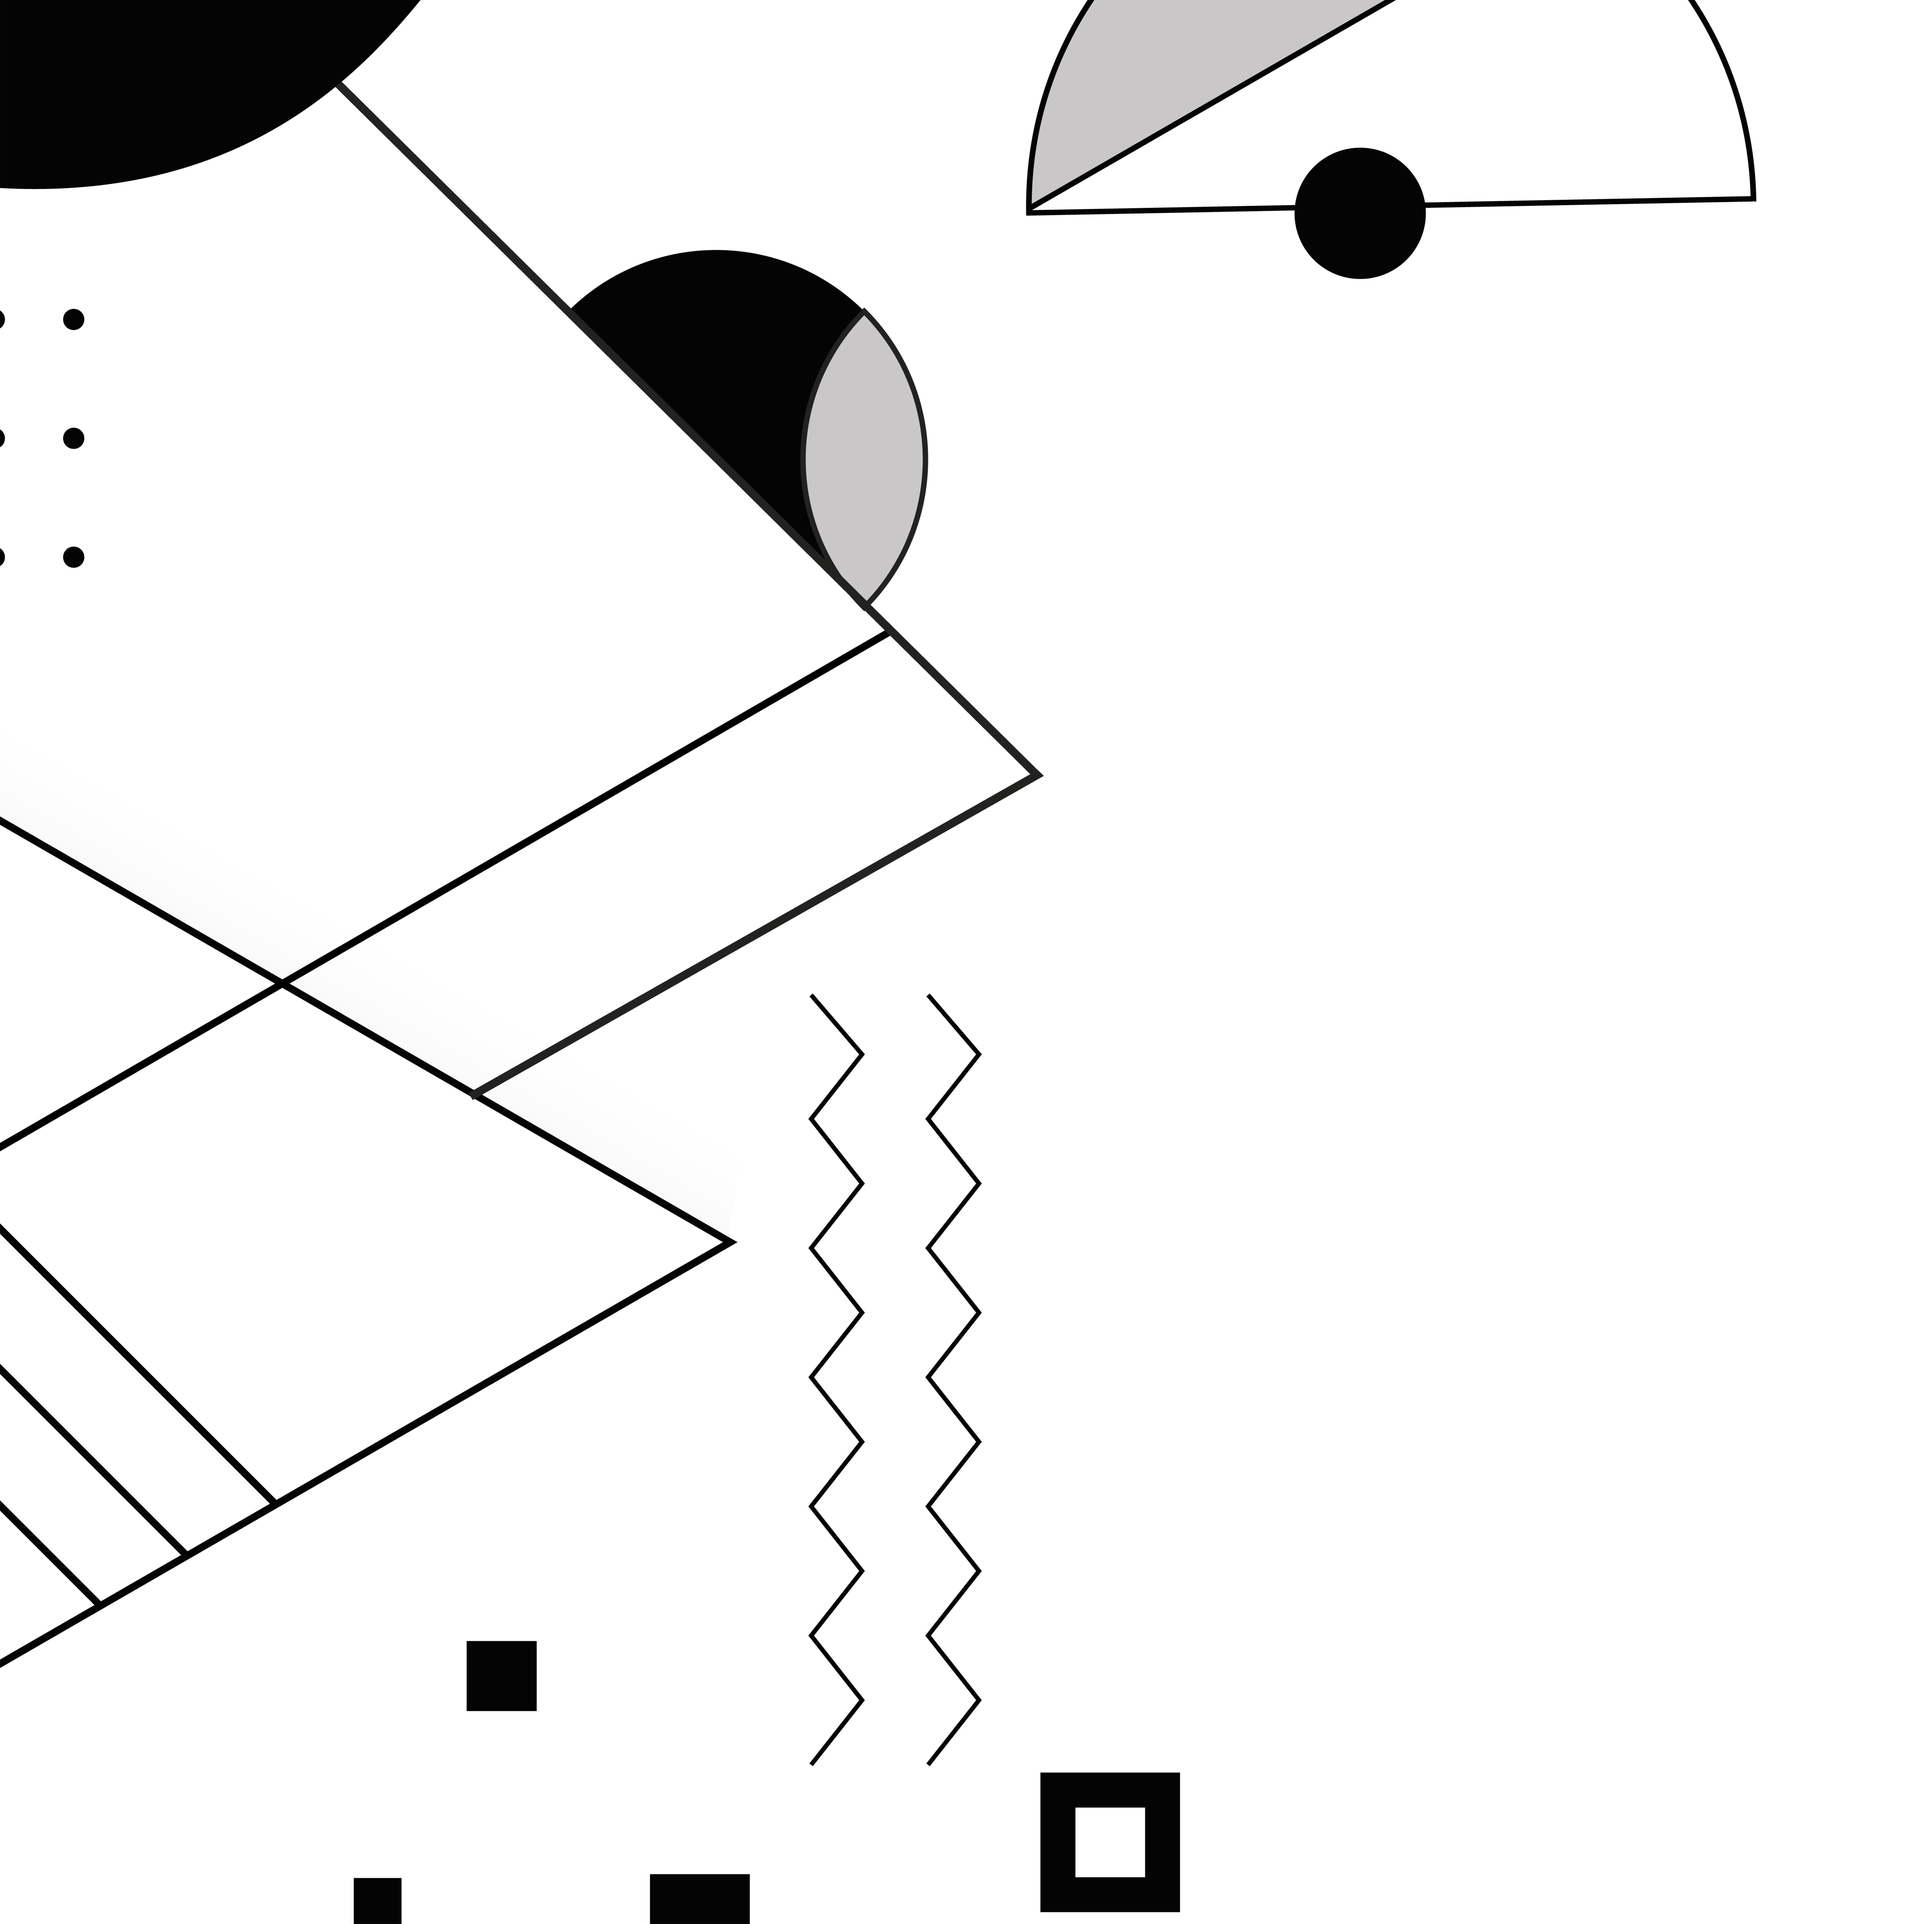
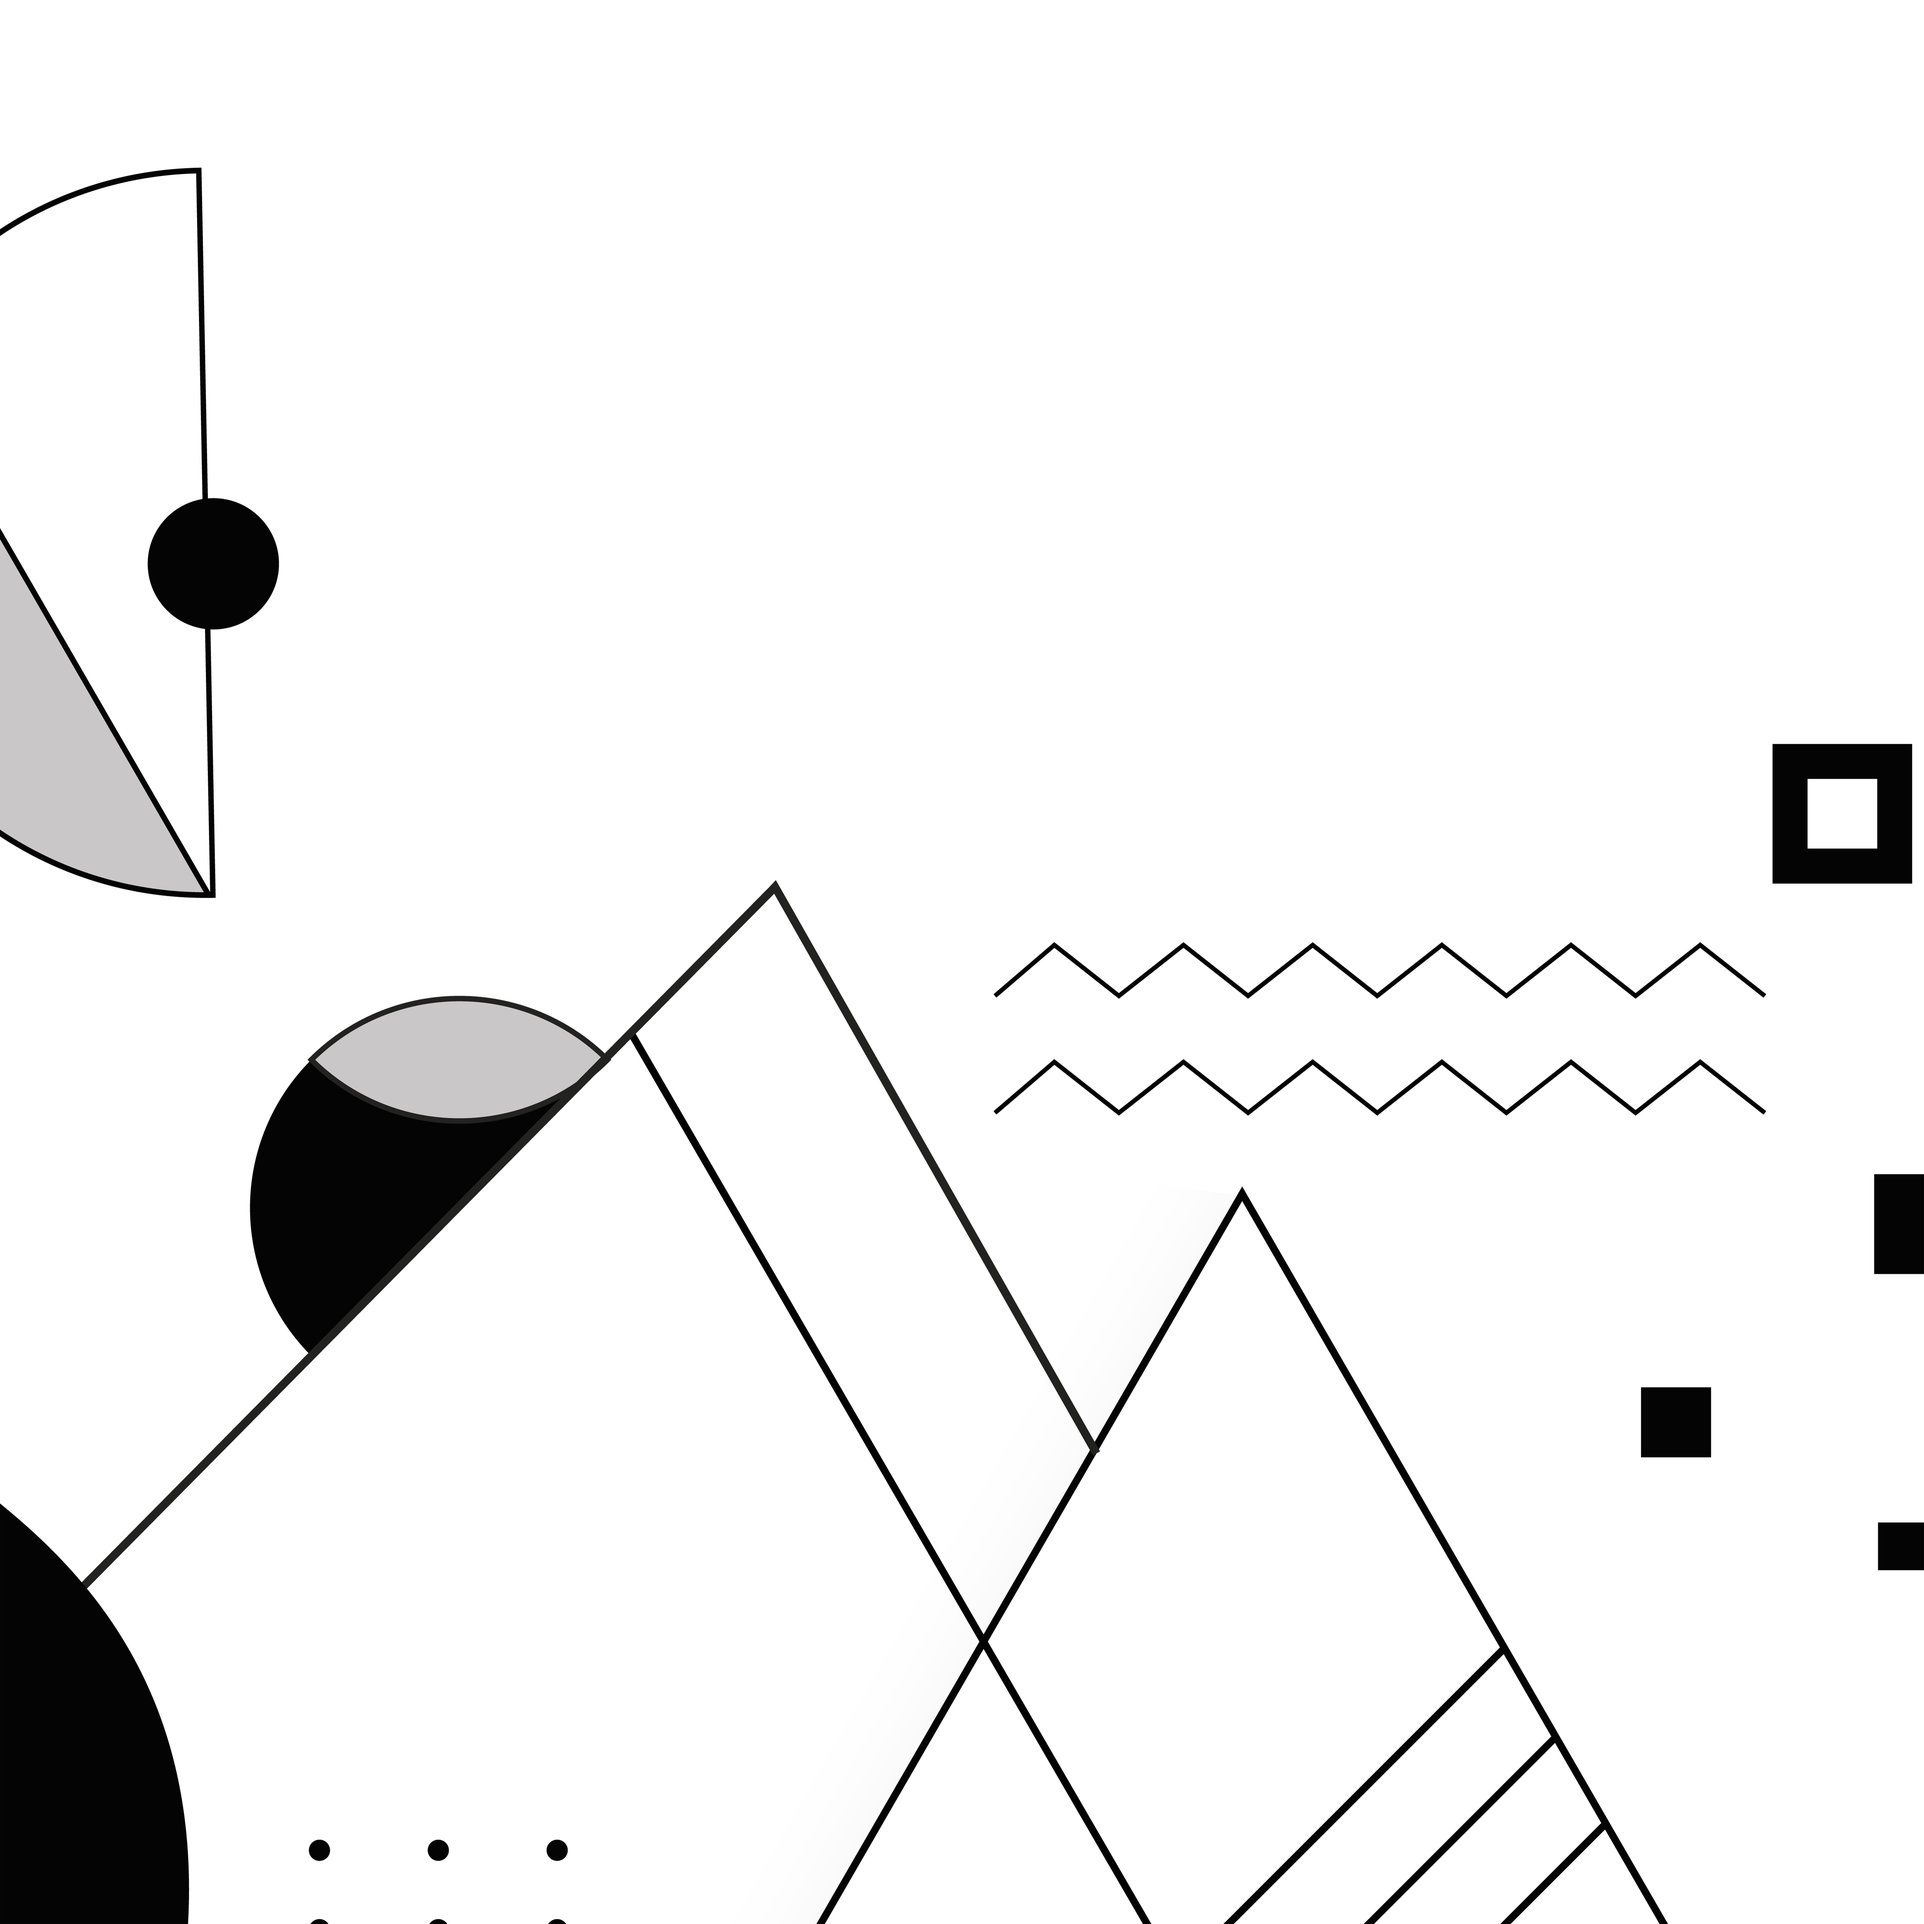
bg align

diff --git a/app/assets/stylesheets/components/_footer.scss b/app/assets/stylesheets/components/_footer.scss
@@ -16,10 +16,6 @@
   filter: grayscale(0.2);
   z-index: 0;
   margin-top: -7rem;
-
-  p {
-    color: $dark-blue;
-  }
 }
 
 i {
@@ -35,12 +31,43 @@ i {
   margin: 0 0.8rem;
 }
 
-.text-bg {
-  padding: 0.5rem;
-  background-color: #FBFBFF;
-  border-radius: 12px;
+.background-cover {
+  padding: 1rem;
+  background-color: #ED5F7B;
+  filter: grayscale(0.0);
+  margin-bottom: -6rem;
 }
-// .background-cover {
-//   background-color: $light-gray;
-//   width: 100%;
-// }
+
+
+// small screen
+@media only screen and (max-width: 768px) {
+  .footer {
+    justify-content: center;
+    align-items: flex-end;
+    display: flex;
+    background-image: url('bg-main-small-flip.png');
+    background-position: initial;
+    background-size: contain;
+    height: 30vh;
+  }
+
+  i {
+  color: $dark-blue;
+  font-size: 2rem;
+
+  &:hover {
+    color: $dark-blue;
+  }
+}
+}
+
+#carouselExampleIndicators {
+  background-image: url('girls.png');
+    background-size: cover;
+
+
+}
+.bg-inside {
+  background-color: rgba(255, 255, 255, 0.8);
+  height: 80%;
+}
